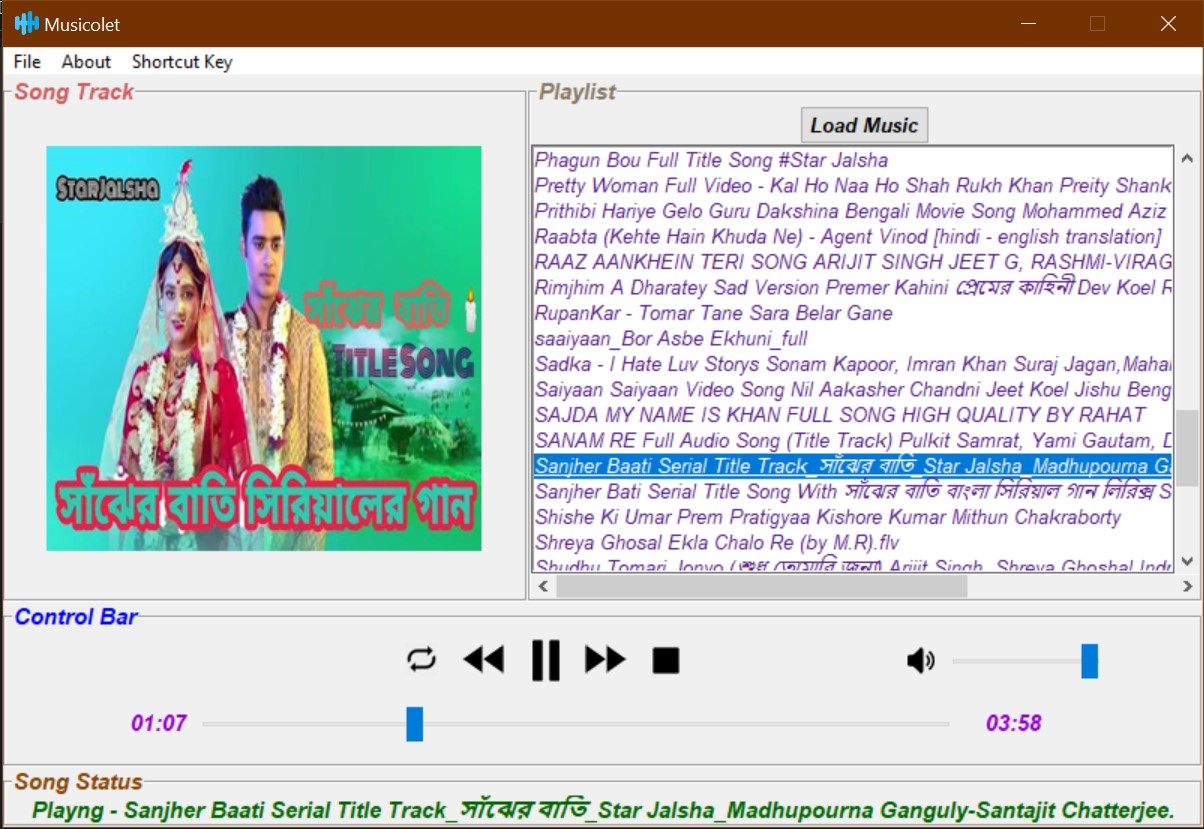
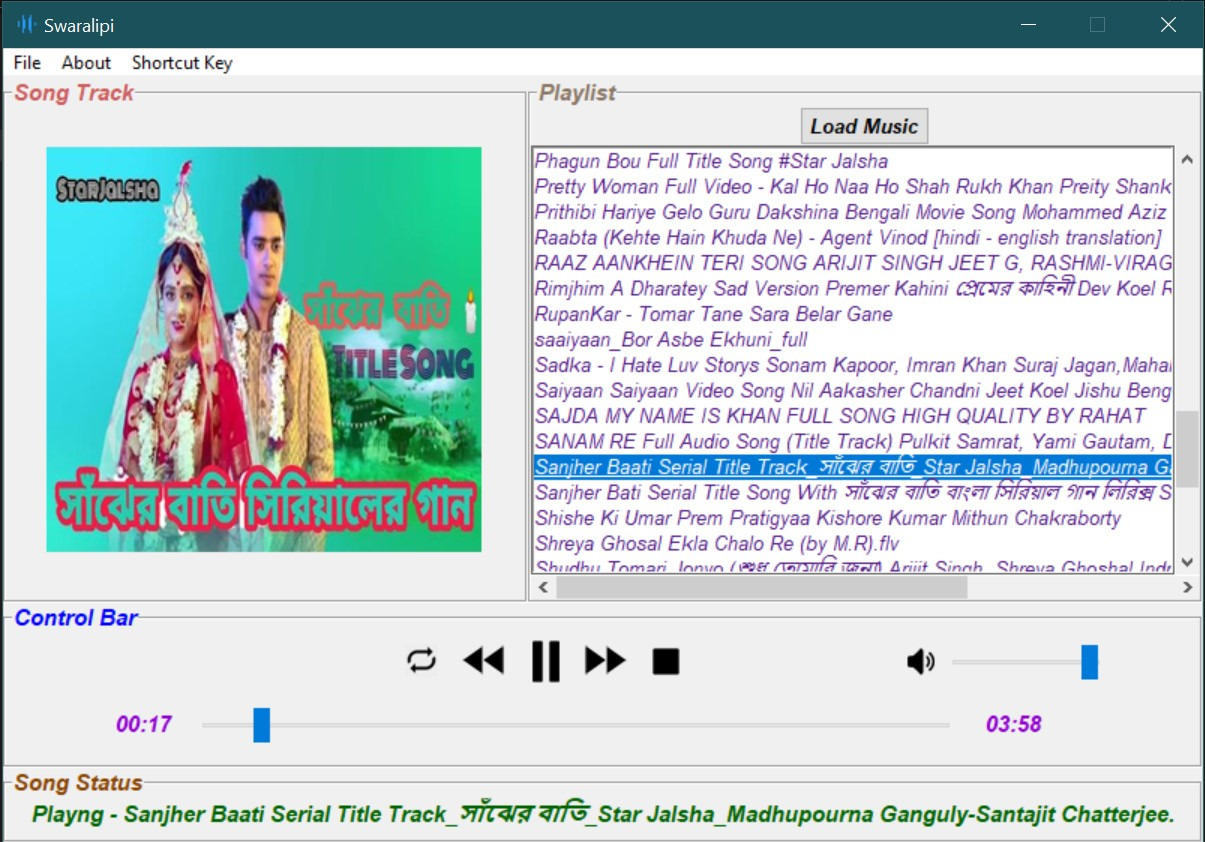
Change the Musicplayer

diff --git a/main.py b/main.py
@@ -1,5 +1,5 @@
 '''
-Music Player Using Tkinter - Musicolet
+Music Player Using Tkinter - Swaralipi
 Author : Bikram Purkait
 Completed on : 03/03/2021
 '''
@@ -302,7 +302,7 @@ def makealbumartimage(image_path):
 
 # function for about
 def about():
-    mb.showinfo('Musicolet', 'It is the basic music player with some advance feature made in Python.😎\nIt is created by Bikram Purkait with ❤.\nIt is completed on 03/03/2021.\nThanks for using the application.👍')
+    mb.showinfo('Swaralipi', 'It is the basic music player with some advance feature made in Python.😎\nIt is created by Bikram Purkait with ❤.\nIt is completed on 03/03/2021.\nThanks for using the application.👍')
 
 
 # function for shortcut key
@@ -326,7 +326,7 @@ root = Tk()
 
 
 # set the title
-root.title("Musicolet")
+root.title("Swaralipi")
 # set the geometry
 root.geometry('800x510')
 # set tkinter window not resizable
